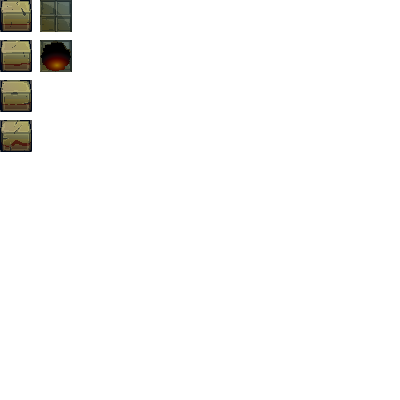
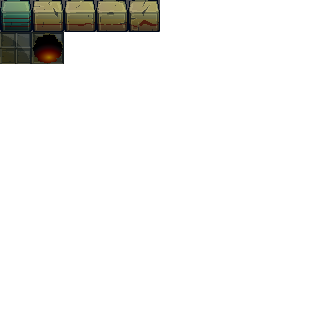
Tile image update

Changed region(s): [[0.0, 0.0, 0.5, 0.4062]]

diff --git a/src/graphmodel.js b/src/graphmodel.js
@@ -71,18 +71,18 @@ GraphModel.prototype.fillWalls = function() {
   {
     for (var j = 0; j < MATRIX_HEIGHT; j++)
     {
-      this.map.putTile(0, i * ROOM_WIDTH, j * ROOM_HEIGHT, this.wallLayer);
+      this.map.putTile(~~(Math.random() * 5), i * ROOM_WIDTH, j * ROOM_HEIGHT, this.wallLayer);
 
       // place horizontal gaps
       if (this.checkEdge(i, j, i + 1, j) === false) {
-        this.map.putTile(0, i * ROOM_WIDTH + 1, j * ROOM_HEIGHT, this.wallLayer);
+        this.map.putTile(~~(Math.random() * 5), i * ROOM_WIDTH + 1, j * ROOM_HEIGHT, this.wallLayer);
       }
       else {
         this.map.removeTile(i * ROOM_WIDTH + 1, j * ROOM_HEIGHT, this.wallLayer);
       }
 
       if (this.checkEdge(i, j, i - 1, j) === false) {
-        this.map.putTile(0, i * ROOM_WIDTH - 1, j * ROOM_HEIGHT, this.wallLayer);
+        this.map.putTile(~~(Math.random() * 5), i * ROOM_WIDTH - 1, j * ROOM_HEIGHT, this.wallLayer);
       }
       else {
         this.map.removeTile(i * ROOM_WIDTH - 1, j * ROOM_HEIGHT, this.wallLayer);
@@ -90,14 +90,14 @@ GraphModel.prototype.fillWalls = function() {
 
       // place vertical gaps
       if (this.checkEdge(i, j, i, j + 1) === false) {
-        this.map.putTile(0, i * ROOM_WIDTH, j * ROOM_HEIGHT + 1, this.wallLayer);
+        this.map.putTile(~~(Math.random() * 5), i * ROOM_WIDTH, j * ROOM_HEIGHT + 1, this.wallLayer);
       }
       else {
         this.map.removeTile(i * ROOM_WIDTH, j * ROOM_HEIGHT + 1, this.wallLayer);
       }
 
       if (this.checkEdge(i, j, i, j - 1) === false) {
-        this.map.putTile(0, i * ROOM_WIDTH, j * ROOM_HEIGHT - 1, this.wallLayer);
+        this.map.putTile(~~(Math.random() * 5), i * ROOM_WIDTH, j * ROOM_HEIGHT - 1, this.wallLayer);
       }
       else {
         this.map.removeTile(i * ROOM_WIDTH, j * ROOM_HEIGHT - 1, this.wallLayer);

diff --git a/src/main.js b/src/main.js
@@ -67,10 +67,10 @@ Gameplay.prototype.create = function()
   this.kamis.addChild(kami1);
 
   this.map = this.game.add.tilemap();
-  this.map.addTilesetImage('tiles', undefined, TILE_SIZE, TILE_SIZE, 0, 8);
+  this.map.addTilesetImage('tiles', undefined, TILE_SIZE, TILE_SIZE);
 
   this.floorTiles = this.map.create('floors', MAP_WIDTH, MAP_HEIGHT, TILE_SIZE, TILE_SIZE);
-  this.map.fill(1, 0, 0, MAP_WIDTH, MAP_HEIGHT, this.floorTiles);
+  this.map.fill(10, 0, 0, MAP_WIDTH, MAP_HEIGHT, this.floorTiles);
 
   this.wallTiles = this.map.create('walls', MAP_WIDTH, MAP_HEIGHT, TILE_SIZE, TILE_SIZE);
   this.wallTiles.resizeWorld();
